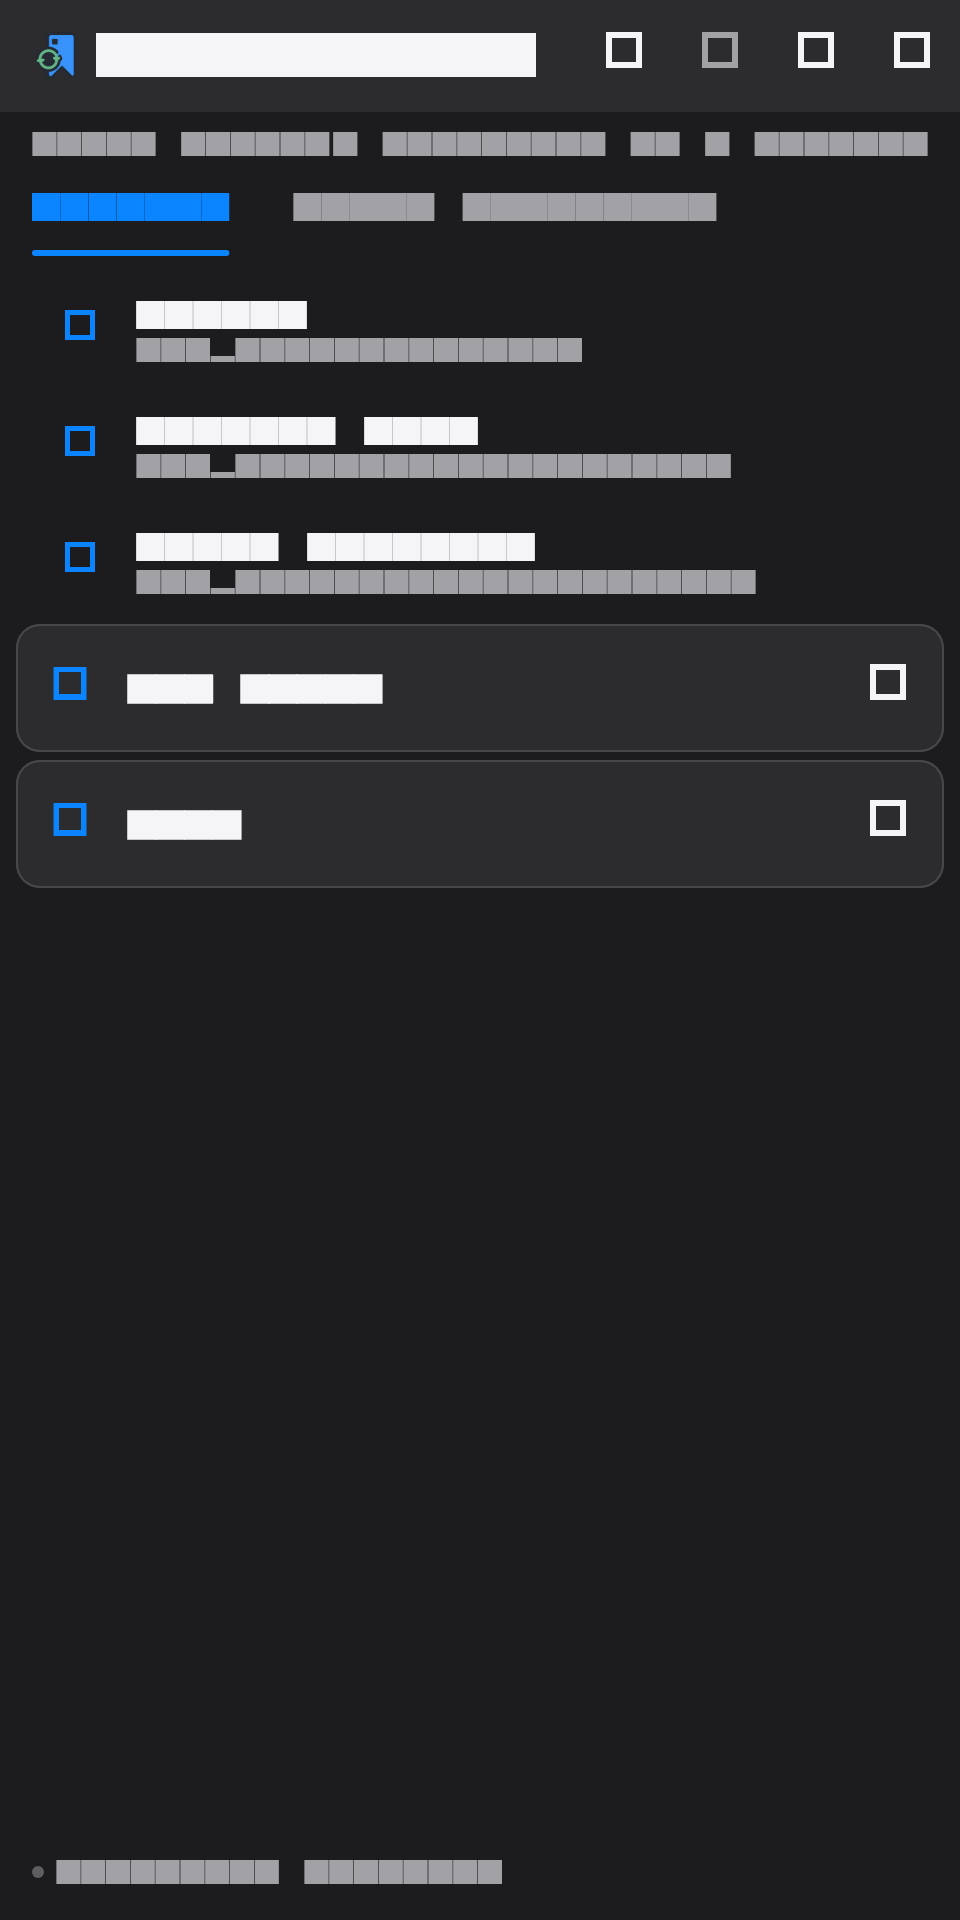
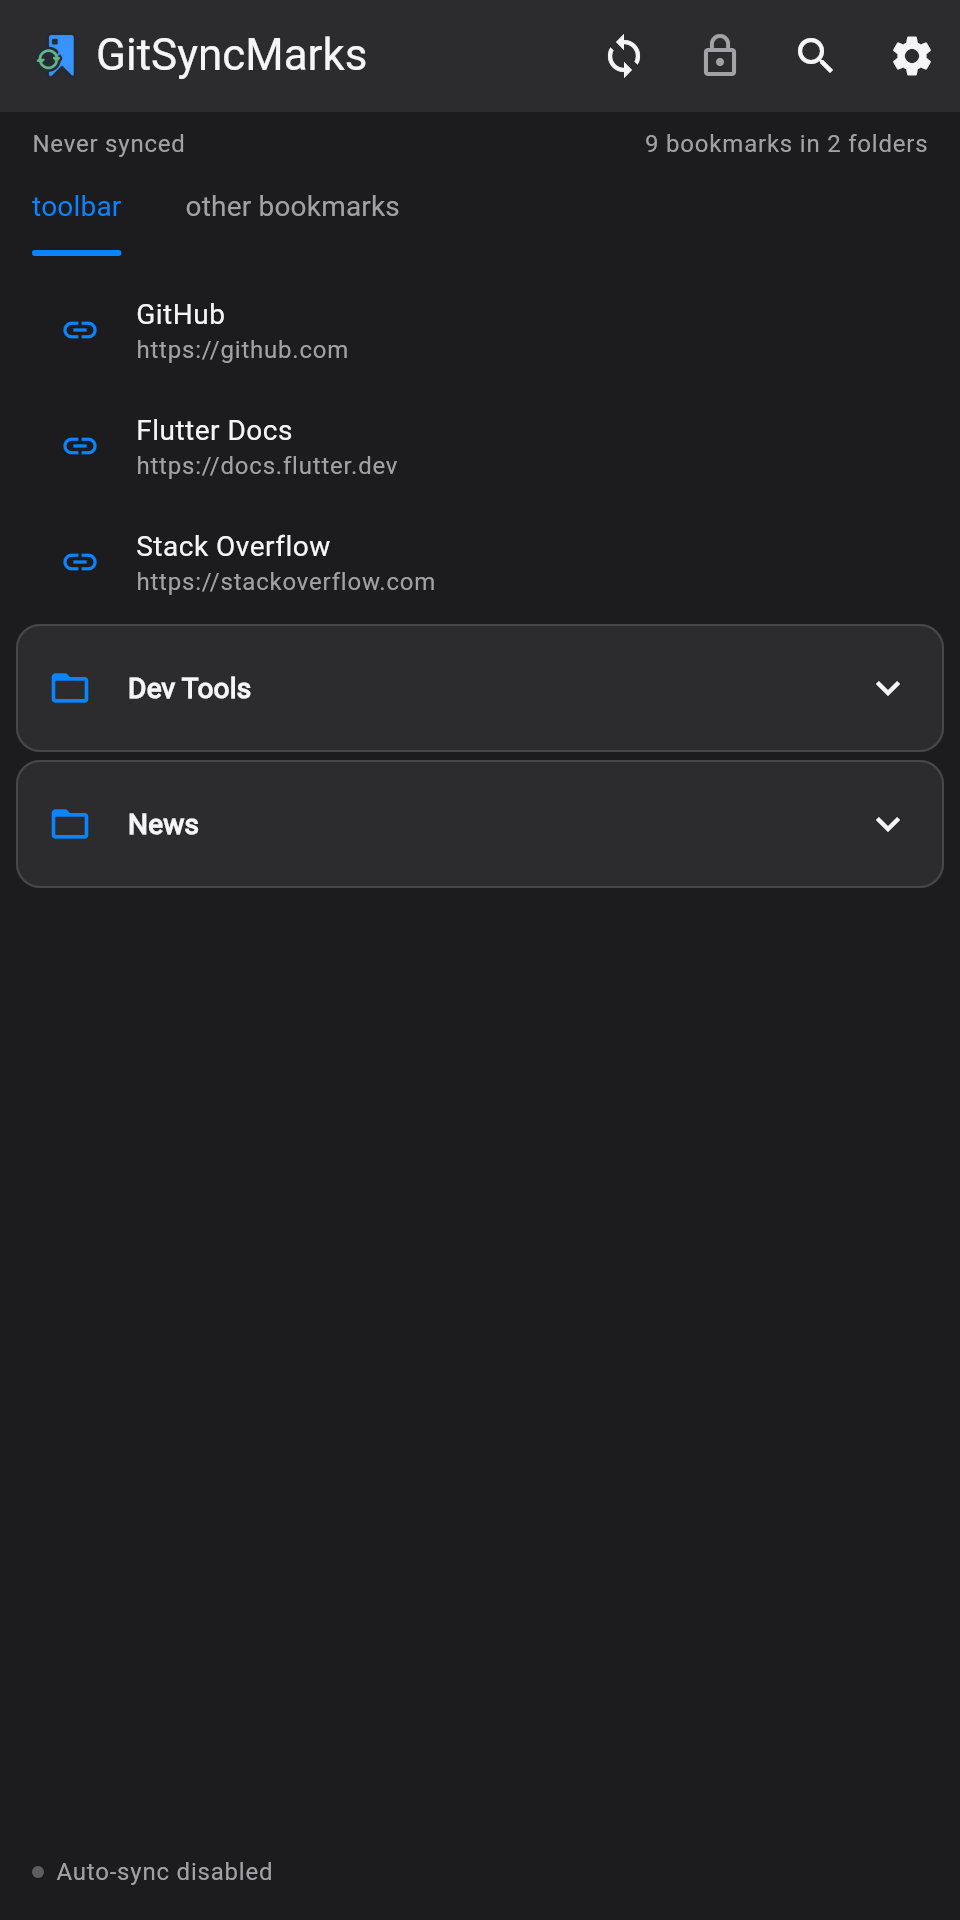
chore: update screenshot generation process and add golden_toolkit dependency
- Replaced manual screenshot generation commands with a script in CONTRIBUTING.md and README.md.
- Added golden_toolkit as a development dependency in pubspec.yaml and updated pubspec.lock.
- Updated generated screenshots in the flatpak and test directories.

diff --git a/test/flutter_test_config.dart b/test/flutter_test_config.dart
@@ -1,0 +1,11 @@
+import 'dart:async';
+
+import 'package:flutter_test/flutter_test.dart';
+import 'package:golden_toolkit/golden_toolkit.dart';
+
+/// Loads Roboto and Material icons so golden screenshots render real text
+/// instead of Ahem blocks. Required for README/Flatpak/F-Droid screenshots.
+Future<void> testExecutable(FutureOr<void> Function() testMain) async {
+  await loadAppFonts();
+  return testMain();
+}

diff --git a/CONTRIBUTING.md b/CONTRIBUTING.md
@@ -47,14 +47,14 @@ flutter run -d macos
 Screenshots werden lokal generiert (CI-Job ist deaktiviert). Vor jedem Release:
 
 ```bash
-flutter test test/screenshot_test.dart --update-goldens
-mkdir -p flatpak/screenshots
-cp test/goldens/*.png flatpak/screenshots/
+./scripts/generate-screenshots.sh
 git add test/goldens/ flatpak/screenshots/
 git commit -m "chore: update screenshots"
 ```
 
-Dann Tag pushen. Die Screenshots in `flatpak/screenshots/` werden von README und Flatpak-Metainfo verwendet.
+Oder manuell: `flutter test test/screenshot_test.dart --update-goldens` → `cp test/goldens/*.png flatpak/screenshots/`
+
+Erzeugt: `bookmark-list.png` (Light), `bookmark-list-dark.png` (Dark), `settings-github.png` – für README und Flatpak-Metainfo.
 
 ## Testing
 

diff --git a/README.md b/README.md
@@ -136,9 +136,9 @@ The bookmark format comes from [GitSyncMarks](https://github.com/d0dg3r/GitSyncM
    flutter build macos     # → build/macos/Build/Products/Release/ (macOS host only)
    ```
 
-5. **Regenerate screenshots** (optional):
+5. **Regenerate screenshots** (optional, vor Release):
    ```bash
-   flutter test --update-goldens test/screenshot_test.dart
+   ./scripts/generate-screenshots.sh
    ```
 
 ## Releases
